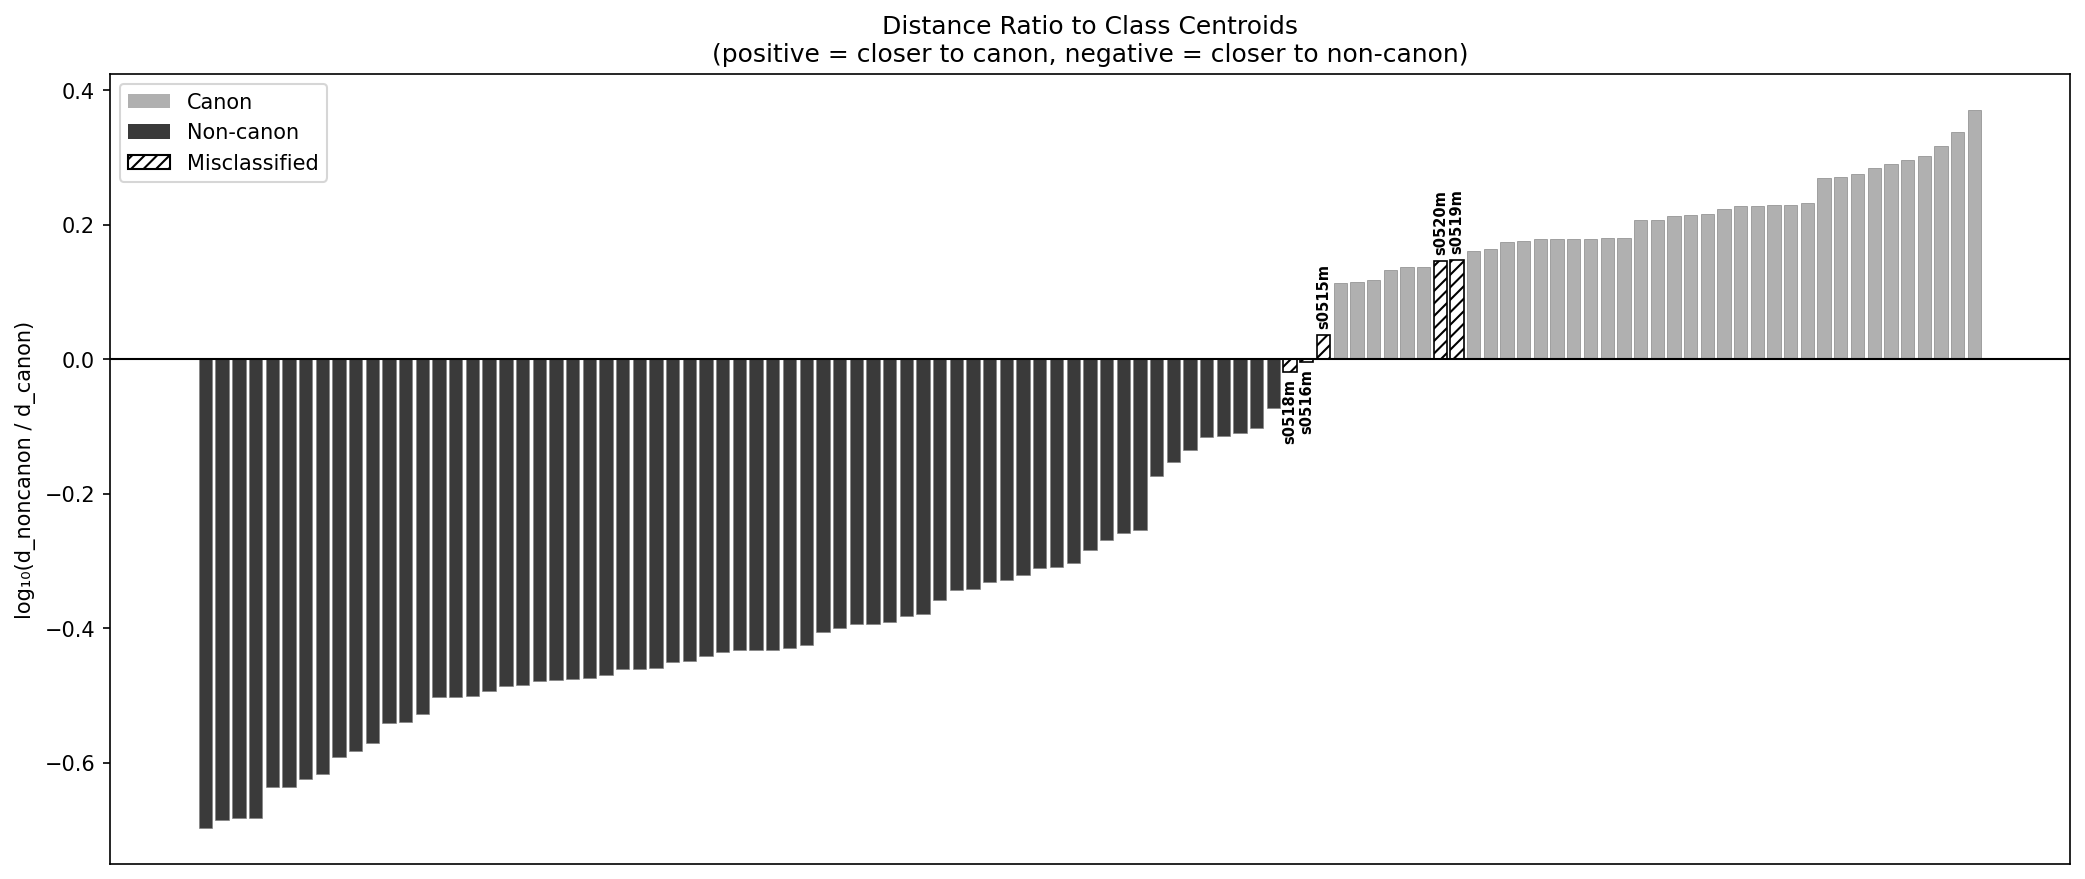
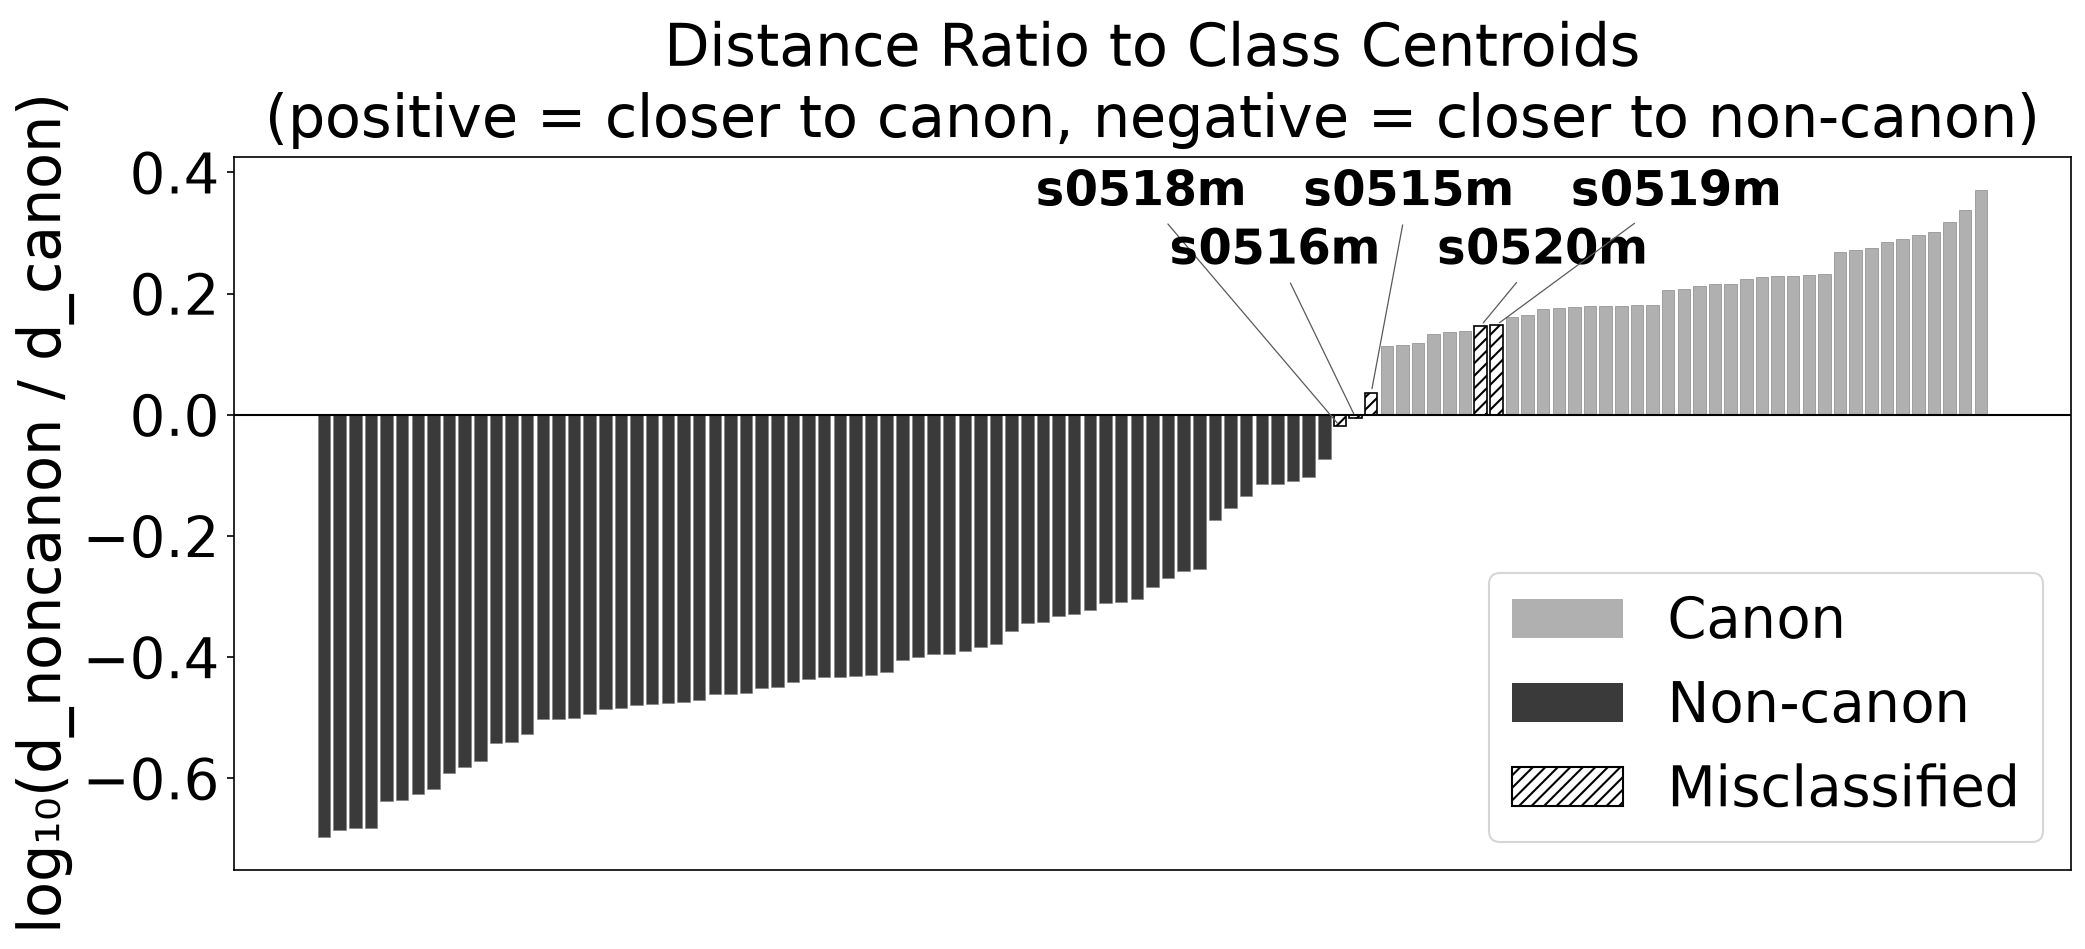
Enlarge in-figure fonts and split decision figure into five panels
Resize on-figure text so it stays legible at the true JPTS print width
(3.93 in): readable heatmap cell numbers, footnotesize bar labels, and
enlarged axis, tick, and legend text across the misclassification
figures, in both the colour (HASP) and greyscale (print) editions.

Split the decision decomposition (Figure 4) from a single grid into one
full-width panel per boundary text (Mahaniddesa, Culaniddesa,
Milindapanha, Nettippakarana, Petakopadesa), stacked as subfigures in
the printed edition. Move the distance-ratio legend to the lower-right
quadrant, which is clear of every bar in both editions.

diff --git a/experiments/exp_misclassification_analysis.py b/experiments/exp_misclassification_analysis.py
@@ -44,6 +44,19 @@ from shared import (MISCLASSIFIED_IDS, CANON_AS_NONCANON, NONCANON_AS_CANON,
 GRAY = '--gray' in sys.argv
 GRAY_SUFFIX = '_gray' if GRAY else ''
 
+# JPTS print geometry: every figure is scaled to the text-block width (about
+# 3.93 in) on a 5.43 x 8.5 in page, so on-figure text shrinks by ~0.28x in the
+# book. Size fonts from the desired *printed* point size and the generated
+# figure width, so labels stay legible in print (Kieffer-Pulz asked for at least
+# footnote size). This changes only text sizes (and, for the decision figure, the
+# panel layout); every data coordinate, centroid, and hull is unchanged.
+PRINT_WIDTH_IN = 3.93
+
+
+def _fs(printed_pt, fig_w_in):
+    """Font size that renders at ~printed_pt once the figure is scaled to textwidth."""
+    return printed_pt * fig_w_in / PRINT_WIDTH_IN
+
 
 def section_1_document_statistics(documents, labels):
     """Compare basic text statistics of misclassified texts vs. class means."""
@@ -195,8 +208,11 @@ def section_2_keyword_heatmap(documents, labels, matrix, feature_names):
         noncanon_mean_z,
         z_matrix[misc_indices],
     ])
+    # Wrap the file-id onto a second line so the row labels stay narrow: this
+    # widens the heatmap cells (long single-line labels otherwise squeeze the
+    # 15 columns so tight the in-cell numbers collide). Content is unchanged.
     row_labels = ['Canon mean', 'Non-canon mean'] + \
-                 [f"{SHORT_NAMES[fid]} ({fid})" for fid in MISCLASSIFIED_IDS]
+                 [f"{SHORT_NAMES[fid]}\n({fid})" for fid in MISCLASSIFIED_IDS]
 
     # Print table
     print(f"\n{'Text':<35}", end='')
@@ -211,18 +227,27 @@ def section_2_keyword_heatmap(documents, labels, matrix, feature_names):
         print()
 
     # Heatmap
-    fig, ax = plt.subplots(figsize=(14, 6))
+    _w = 14
+    # Taller than wide at generation so each row has vertical room for its
+    # two-line label and the in-cell number; scaled to textwidth in print.
+    fig, ax = plt.subplots(figsize=(_w, 10.5))
     vmax = np.abs(row_data).max()
     sns.heatmap(row_data, ax=ax, cmap='Greys' if GRAY else 'RdBu_r', center=0,
                 vmin=-vmax, vmax=vmax,
                 xticklabels=available_words, yticklabels=row_labels,
-                annot=True, fmt='.1f', annot_kws={'fontsize': 8},
-                linewidths=0.5, linecolor='gray')
+                annot=True, fmt='.1f', annot_kws={'fontsize': _fs(5.2, _w)},
+                linewidths=0.5, linecolor='gray',
+                cbar_kws={'label': ''})
+    # Enlarge the colour-bar tick labels too (otherwise they print at ~2 pt).
+    cbar = ax.collections[0].colorbar
+    cbar.ax.tick_params(labelsize=_fs(7, _w))
     _heat_sub = ('(lighter = canon-like, darker = commentary-like)' if GRAY
                  else '(blue = canon-like, red = commentary-like)')
-    ax.set_title('Discriminative Word Z-Scores\n' + _heat_sub, fontsize=12)
-    ax.tick_params(axis='x', rotation=45)
-    ax.tick_params(axis='y', rotation=0)
+    ax.set_title('Discriminative Word Z-Scores\n' + _heat_sub, fontsize=_fs(9, _w))
+    # Vertical x labels: 15 words at a legible size cannot fit at 45 deg across the
+    # ~3.9 in text block without colliding; upright they sit one per column.
+    ax.tick_params(axis='x', rotation=90, labelsize=_fs(7.5, _w))
+    ax.tick_params(axis='y', rotation=0, labelsize=_fs(7.5, _w))
 
     # Add horizontal lines to separate means from texts
     ax.axhline(y=2, color='black', linewidth=2)
@@ -270,7 +295,8 @@ def section_3_feature_space(documents, labels, matrix, feature_names):
               f"{log_ratio[idx]:>10.4f} {true_label:>7}")
 
     # --- Distance ratio chart ---
-    fig, ax = plt.subplots(figsize=(14, 6))
+    _w = 14
+    fig, ax = plt.subplots(figsize=(_w, 6))
 
     # Sort by log ratio
     sort_idx = np.argsort(log_ratio)
@@ -302,18 +328,28 @@ def section_3_feature_space(documents, labels, matrix, feature_names):
                 bars[i].set_edgecolor('black')
                 bars[i].set_linewidth(0.8)
     ax.axhline(y=0, color='black', linewidth=1, linestyle='-')
-    ax.set_ylabel('log₁₀(d_noncanon / d_canon)')
+    ax.set_ylabel('log₁₀(d_noncanon / d_canon)', fontsize=_fs(8, _w))
+    ax.tick_params(axis='y', labelsize=_fs(7.5, _w))
     ax.set_title('Distance Ratio to Class Centroids\n'
-                 '(positive = closer to canon, negative = closer to non-canon)')
+                 '(positive = closer to canon, negative = closer to non-canon)',
+                 fontsize=_fs(8, _w))
 
-    # Label misclassified bars
-    for i, fid in enumerate(sorted_ids):
-        if fid in misc_set:
-            ax.annotate(fid, (x[i], sorted_ratios[i]),
-                        fontsize=7, fontweight='bold', rotation=90,
-                        ha='center', va='bottom' if sorted_ratios[i] >= 0 else 'top',
-                        xytext=(0, 3 if sorted_ratios[i] >= 0 else -3),
-                        textcoords='offset points')
+    # Label misclassified bars. The boundary texts cluster near zero, so their
+    # labels would collide; place them horizontally and let adjustText repel them
+    # apart with leader lines back to each bar (bar positions are unchanged).
+    misc_order = [(i, fid) for i, fid in enumerate(sorted_ids) if fid in misc_set]
+    m_x = np.array([x[i] for i, _ in misc_order], dtype=float)
+    mid = m_x.mean()
+    half = max((m_x.max() - m_x.min()) / 2.0, len(sorted_ids) * 0.16)
+    label_xs = np.linspace(mid - half, mid + half, len(misc_order))
+    y_hi = sorted_ratios.max() * 0.88
+    y_lo = sorted_ratios.max() * 0.62
+    for k, ((i, fid), lx) in enumerate(zip(misc_order, label_xs)):
+        ax.annotate(fid, xy=(x[i], sorted_ratios[i]),
+                    xytext=(lx, y_hi if k % 2 == 0 else y_lo),
+                    fontsize=_fs(6.5, _w), fontweight='bold',
+                    ha='center', va='bottom',
+                    arrowprops=dict(arrowstyle='-', color='0.35', lw=0.6))
 
     # Legend
     from matplotlib.patches import Patch
@@ -323,7 +359,9 @@ def section_3_feature_space(documents, labels, matrix, feature_names):
         Patch(facecolor=c_misc, edgecolor='black' if GRAY else None,
               hatch='////' if GRAY else None, label='Misclassified'),
     ]
-    ax.legend(handles=legend_elements, loc='upper left')
+    # Lower right: the right-hand bars are all positive (pointing up), so the
+    # lower-right quadrant is empty in both editions, clear of every bar.
+    ax.legend(handles=legend_elements, loc='lower right', fontsize=_fs(7.5, _w))
     ax.set_xticks([])
 
     plt.tight_layout()
@@ -340,7 +378,8 @@ def section_3_feature_space(documents, labels, matrix, feature_names):
     canon_centroid_2d = pca.transform(canon_centroid).flatten()
     noncanon_centroid_2d = pca.transform(noncanon_centroid).flatten()
 
-    fig, ax = plt.subplots(figsize=(12, 8))
+    _w = 12
+    fig, ax = plt.subplots(figsize=(_w, 8))
 
     # --- appearance only: GRAY swaps hues for luminance-distinct greys and adds
     #     marker/line/hatch cues. Every coordinate, centroid and hull below is
@@ -378,15 +417,32 @@ def section_3_feature_space(documents, labels, matrix, feature_names):
                    c=col[lbl_name], marker=pt_marker[lbl_val],
                    alpha=0.5, s=40, label=label_display)
 
-    # Plot misclassified texts prominently
+    # Fixed label anchors (data coords) in the open areas of the plot, each joined
+    # to its point by a leader line. The three near-coincident central texts
+    # (Milindapanha, Mahaniddesa, Culaniddesa) are fanned into the empty band above
+    # the hull; the two outliers go to the open lower-left. Point positions are
+    # unchanged; only the labels move.
+    # Upper three: a descending right-stagger in the empty band above the hull, in
+    # the same top-to-bottom order as their points' heights, so each leader fans out
+    # below the labels and none crosses another label's text. Lower two: stacked in
+    # the clear lower-centre band. All leaders join labels to the true point.
+    pca_label_xy = {
+        's0518m': (0.0080, 0.0300),    # Milindapanha (highest point -> top label)
+        's0515m': (0.0120, 0.0220),    # Mahaniddesa (middle)
+        's0516m': (0.0170, 0.0140),    # Culaniddesa (lowest of the three)
+        's0519m': (-0.0060, -0.0165),  # Nettippakarana (stacked above Petakopadesa)
+        's0520m': (-0.0060, -0.0210),  # Petakopadesa (clear lower-centre band)
+    }
     for fid in MISCLASSIFIED_IDS:
         idx = get_doc_index(documents, fid)
         color = col['canon'] if labels[idx] == 0 else col['paracanonical']
         ax.scatter(coords[idx, 0], coords[idx, 1],
                    c=color, s=120, edgecolors='black', linewidth=2, zorder=10)
-        ax.annotate(SHORT_NAMES[fid], (coords[idx, 0], coords[idx, 1]),
-                    fontsize=8, fontweight='bold',
-                    xytext=(8, 8), textcoords='offset points')
+        lx, ly = pca_label_xy.get(fid, (coords[idx, 0] + 0.004, coords[idx, 1] + 0.004))
+        ax.annotate(SHORT_NAMES[fid], xy=(coords[idx, 0], coords[idx, 1]),
+                    xytext=(lx, ly), fontsize=_fs(7, _w), fontweight='bold',
+                    ha='center', va='center', zorder=25,
+                    arrowprops=dict(arrowstyle='-', color='0.35', lw=0.6))
 
         # Draw lines to both centroids
         ax.plot([coords[idx, 0], canon_centroid_2d[0]],
@@ -433,10 +489,14 @@ def section_3_feature_space(documents, labels, matrix, feature_names):
                edgecolors='black', linewidth=2, zorder=20, label='Non-canon centroid')
 
     var_exp = pca.explained_variance_ratio_
-    ax.set_xlabel(f'PC1 ({var_exp[0]:.1%} variance)')
-    ax.set_ylabel(f'PC2 ({var_exp[1]:.1%} variance)')
-    ax.set_title('PCA: Misclassified Texts and Class Centroids')
-    ax.legend(loc='best', fontsize=9)
+    ax.set_xlabel(f'PC1 ({var_exp[0]:.1%} variance)', fontsize=_fs(8, _w))
+    ax.set_ylabel(f'PC2 ({var_exp[1]:.1%} variance)', fontsize=_fs(8, _w))
+    ax.tick_params(labelsize=_fs(7, _w))
+    ax.set_title('PCA: Misclassified Texts and Class Centroids', fontsize=_fs(9, _w))
+    # Legend below the axes so it never sits over the data (and so the text labels
+    # can use the whole plot area without colliding with it).
+    ax.legend(loc='upper center', bbox_to_anchor=(0.5, -0.15), ncol=3,
+              fontsize=_fs(6.5, _w), frameon=True)
 
     plt.tight_layout()
     outpath = RESULTS_DIR / f'exp_misclass_pca_centroids{GRAY_SUFFIX}.png'
@@ -464,15 +524,14 @@ def section_4_decision_decomposition(documents, labels, matrix, feature_names):
     coefs = lr.coef_[0]
     intercept = lr.intercept_[0]
 
-    # 2x3 panel figure
-    n_panels = len(MISCLASSIFIED_IDS)
-    ncols = min(3, n_panels)
-    nrows = (n_panels + ncols - 1) // ncols
-    fig, axes = plt.subplots(nrows, ncols, figsize=(18, 5 * nrows))
-    axes = np.array(axes).flatten() if n_panels > 1 else [axes]
-
-    for panel_idx, fid in enumerate(MISCLASSIFIED_IDS):
-        ax = axes[panel_idx]
+    # Figure 4 is split into one full-width panel per boundary text (five in all),
+    # stacked as subfigures in the printed edition, so each text's 20 word labels
+    # are legible in the book. The data, words, and bars are identical to the old
+    # single-grid version; only the layout (one file each) and the font sizes
+    # change. Each panel is generated at textwidth so its labels print >= ~7.5 pt.
+    _w = 10
+    saved_paths = []
+    for fid in MISCLASSIFIED_IDS:
         idx = get_doc_index(documents, fid)
         true_label = 'canon' if labels[idx] == 0 else 'non-canon'
 
@@ -507,17 +566,25 @@ def section_4_decision_decomposition(documents, labels, matrix, feature_names):
             colors = ['#B0B0B0' if c < 0 else '#3A3A3A' for c in show_contributions]
         else:
             colors = ['#2196F3' if c < 0 else '#F44336' for c in show_contributions]
+
+        # Taller panel (7.5 vs 6) so the 20 word labels have clear vertical
+        # spacing and the longer Pali words no longer touch their neighbours;
+        # label size raised to a true footnotesize (~8 pt at the 3.93" print
+        # width) per the editor's legibility request.
+        fig, ax = plt.subplots(figsize=(_w, 7.5))
         ax.barh(range(len(show_words)), show_contributions, color=colors,
                 edgecolor='gray', linewidth=0.3)
         ax.set_yticks(range(len(show_words)))
-        ax.set_yticklabels(show_words, fontsize=7)
+        ax.set_ylim(-0.6, len(show_words) - 0.4)
+        ax.set_yticklabels(show_words, fontsize=_fs(8, _w))
+        ax.tick_params(axis='x', labelsize=_fs(7, _w))
         ax.axvline(x=0, color='black', linewidth=0.8)
-        ax.set_xlabel('Contribution to decision', fontsize=8)
+        ax.set_xlabel('Contribution to decision', fontsize=_fs(8, _w))
 
         predicted = 'non-canon' if decision > 0 else 'canon'
         ax.set_title(f"{SHORT_NAMES[fid]} ({fid})\n"
                      f"True: {true_label}, Score: {decision:.2f} -> {predicted}",
-                     fontsize=9)
+                     fontsize=_fs(9, _w))
 
         # Print top contributors
         print(f"\n  {SHORT_NAMES[fid]} ({fid}) - true: {true_label}, "
@@ -531,18 +598,12 @@ def section_4_decision_decomposition(documents, labels, matrix, feature_names):
             print(f"      {feature_names[i]:<20} contribution={contributions[i]:>8.4f}  "
                   f"(coef={coefs[i]:.4f}, x_scaled={x_scaled[i]:.4f})")
 
-    for i in range(n_panels, len(axes)):
-        axes[i].set_visible(False)
-
-    _dec_sub = ('(lighter = toward canon, darker = toward non-canon)' if GRAY
-                else '(blue = toward canon, red = toward non-canon)')
-    plt.suptitle('Decision Decomposition: Words Driving (Mis)classification\n'
-                 + _dec_sub, fontsize=13)
-    plt.tight_layout()
-    outpath = RESULTS_DIR / f'exp_misclass_decision_decomp{GRAY_SUFFIX}.png'
-    fig.savefig(outpath, dpi=150, bbox_inches='tight')
-    plt.close(fig)
-    print(f"\n  Saved: {outpath}")
+        plt.tight_layout()
+        outpath = RESULTS_DIR / f'exp_misclass_decision_{fid}{GRAY_SUFFIX}.png'
+        fig.savefig(outpath, dpi=150, bbox_inches='tight')
+        plt.close(fig)
+        saved_paths.append(outpath)
+        print(f"  Saved: {outpath}")
 
 
 def section_5_nearest_neighbors(documents, labels, matrix):
